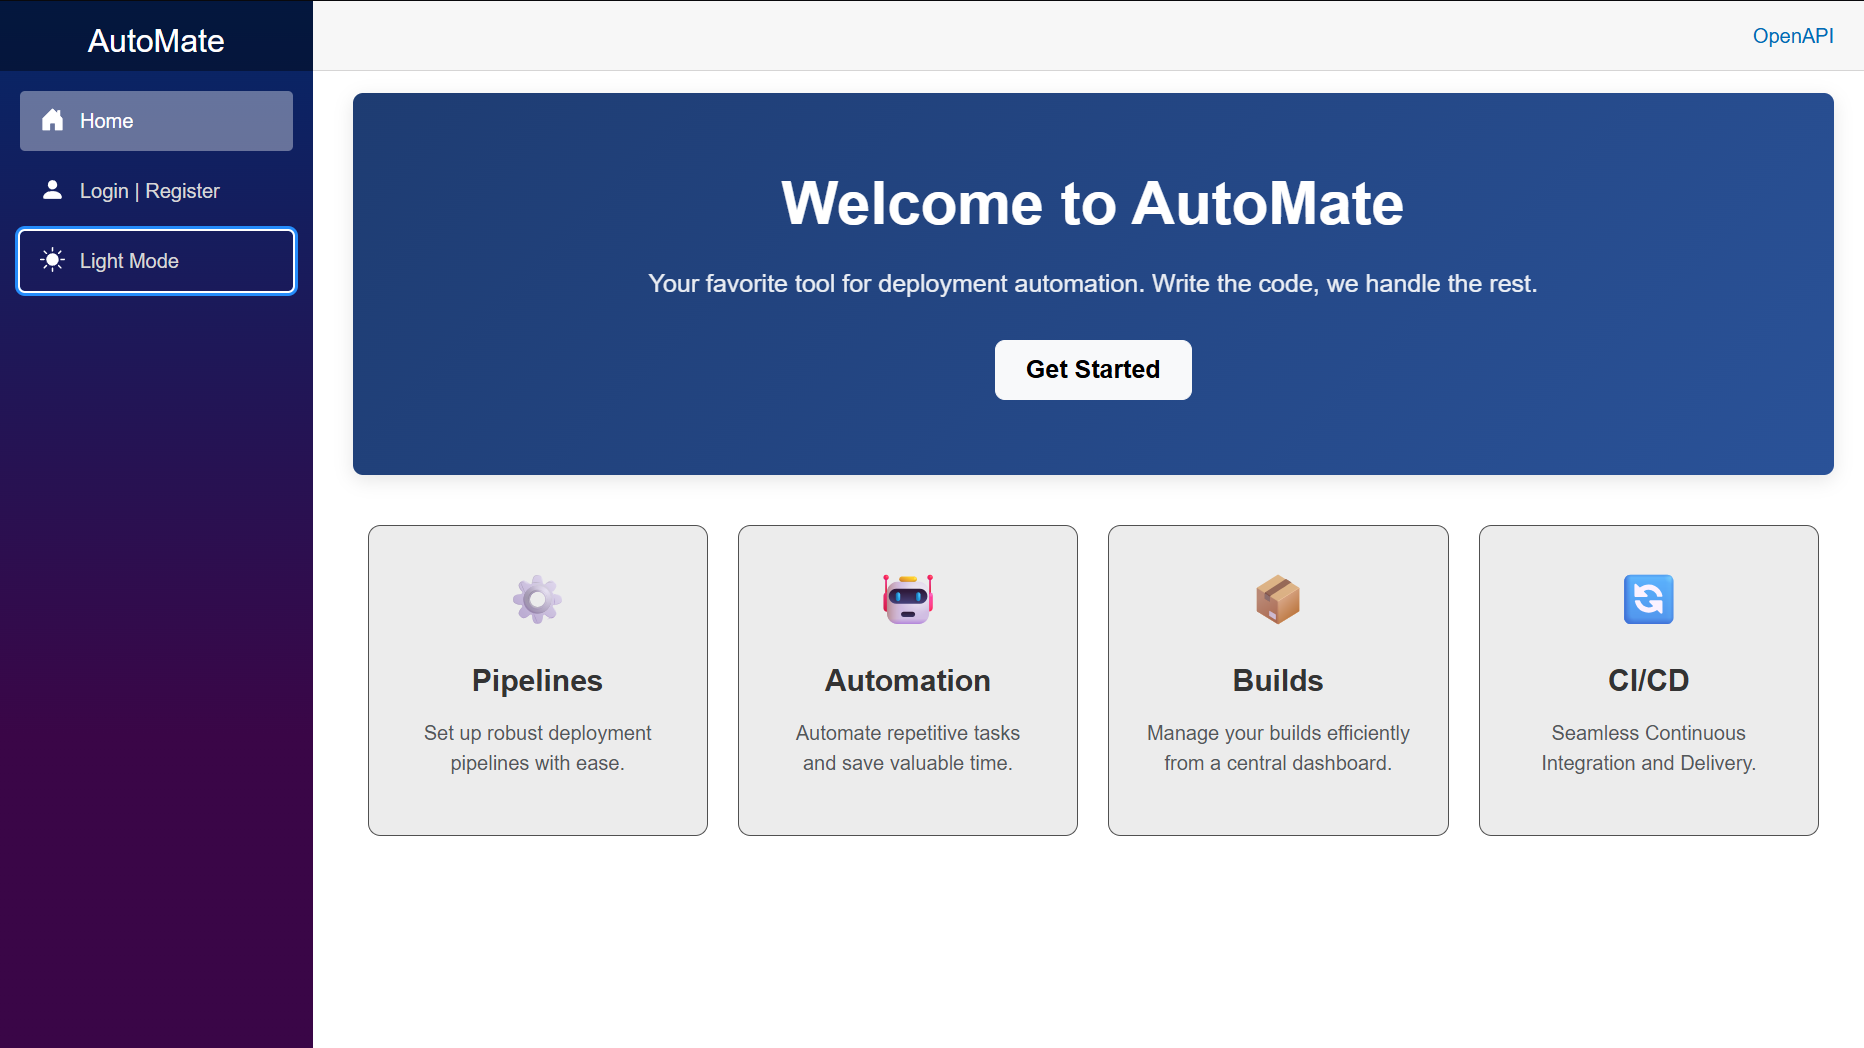
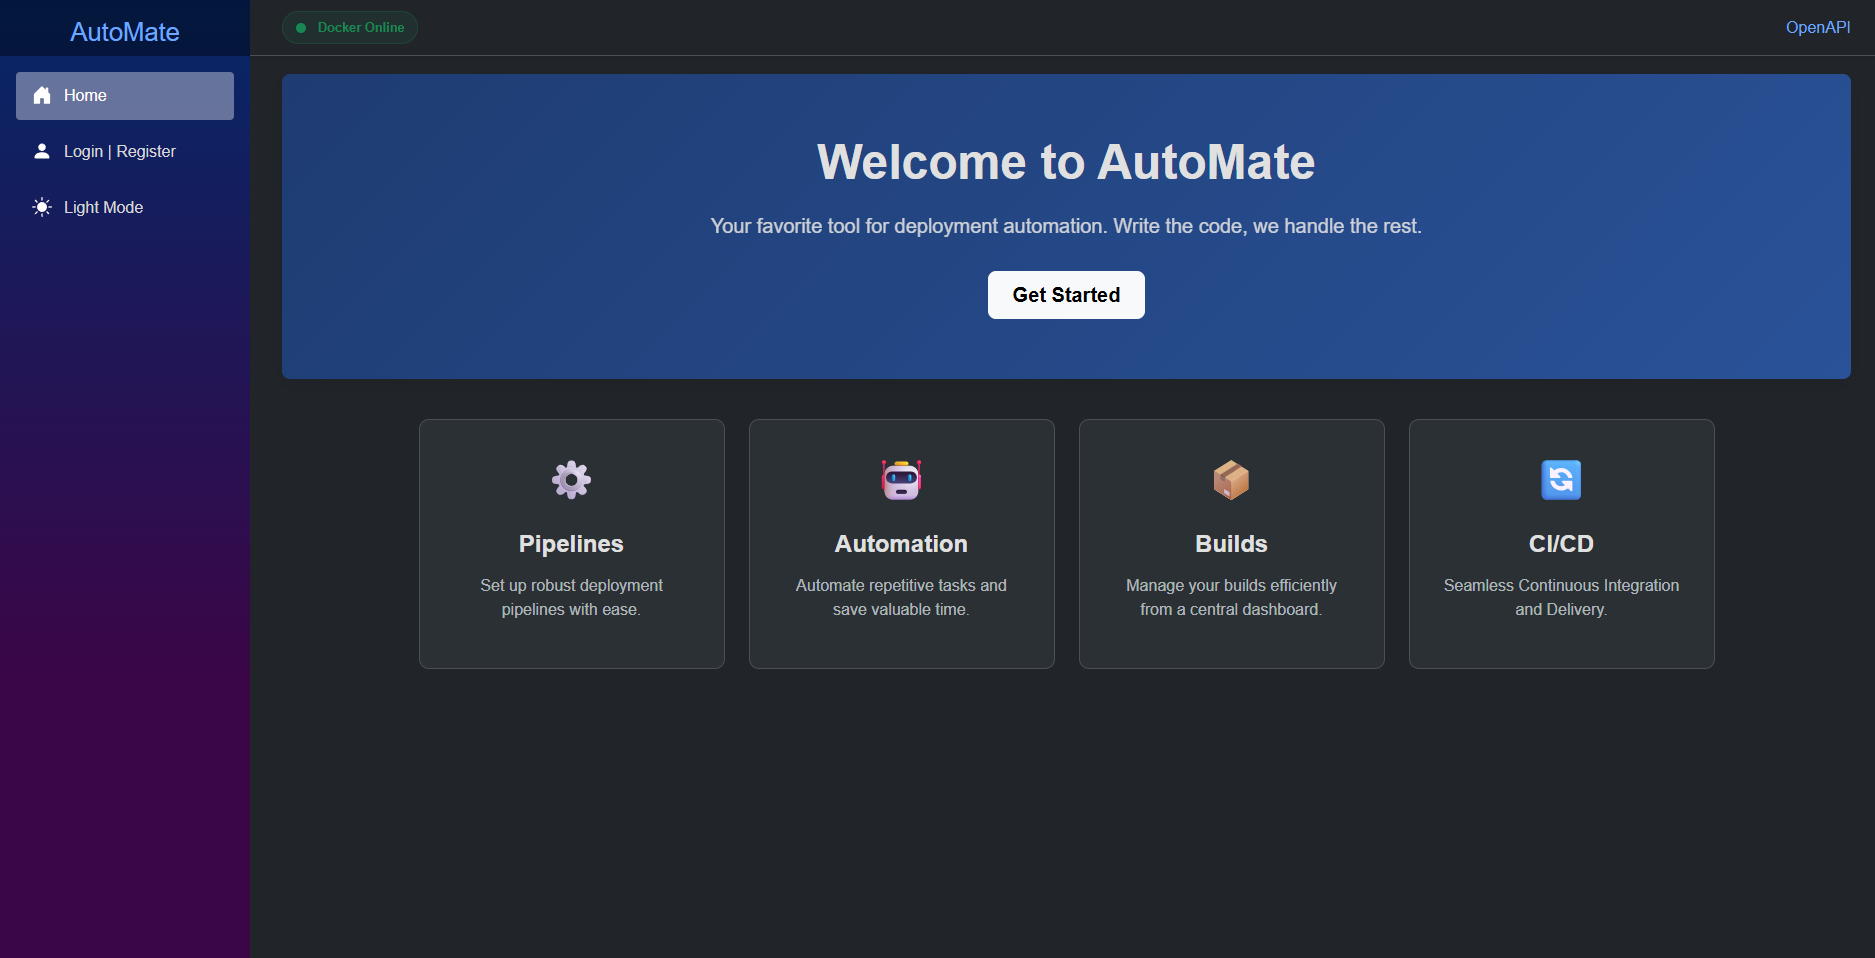
Update README with New Project Features and Updated Screenshots

diff --git a/README.md b/README.md
@@ -16,9 +16,9 @@
 
 <div align="center">
   <img src="assets/homepage.png" width="600">
-  <img src="assets/loginpage.png" width="600">
-  <img src="assets/landingpage.png" width="600">
-  <img src="assets/githubrepos.png" width="600">
+  <img src="assets/dashboard.png" width="600">
+  <img src="assets/configform.png" width="600">
+  <img src="assets/registrypage.png" width="600">
   <img src="assets/localgitrepos.png" width="600">
 </div>
 
@@ -44,6 +44,15 @@
     * Automatically detects Git repositories and `.NET` projects (`.sln`, `.csproj`).
     * Enterprise-grade safety: handles symlinks and ignores build artifacts (`bin`, `obj`, `node_modules`).
       
+* **💾 Project Registration & Management**
+    * Persist scanned local and GitHub projects into the PostgreSQL database.
+    * Maintain clear tracking of projects and their metadata.
+
+* **🐳 Automated Docker Deployments**
+    * Direct communication with the local Docker daemon.
+    * Analyzes `.NET` projects and dynamically generates Infrastructure-as-Code files (`Dockerfile`, `.dockerignore`, `docker-compose.yml`) on the fly.
+    * One-click deployment to spin up containers locally, accompanied by an automated background deployment cleanup service.
+      
 * **🏗 Clean Architecture**
     * Strict separation of concerns into `Core` (Entities/DTOs), `Services` (Business Logic), and `Web` (Blazor UI & Minimal APIs).
 
@@ -51,10 +60,9 @@
 
 ## 🗺 Roadmap (Upcoming Features)
 
-- [ ] **Project Registration:** Save scanned local and GitHub projects into the database.
-- [ ] **Docker Engine Integration:** Communicate directly with the local Docker daemon.
-- [ ] **Automated Deployments:** Generate `Dockerfile`s on the fly and spin up containers with a single click.
 - [ ] **Live Logs & Monitoring:** View real-time container logs directly from the Blazor dashboard.
+- [ ] **Cloud Provider Integration:** Deploy directly to AWS, Azure, or DigitalOcean.
+- [ ] **CI/CD Pipeline Generation:** Automatically create GitHub Actions workflows for continuous integration.
 
 ---
 
